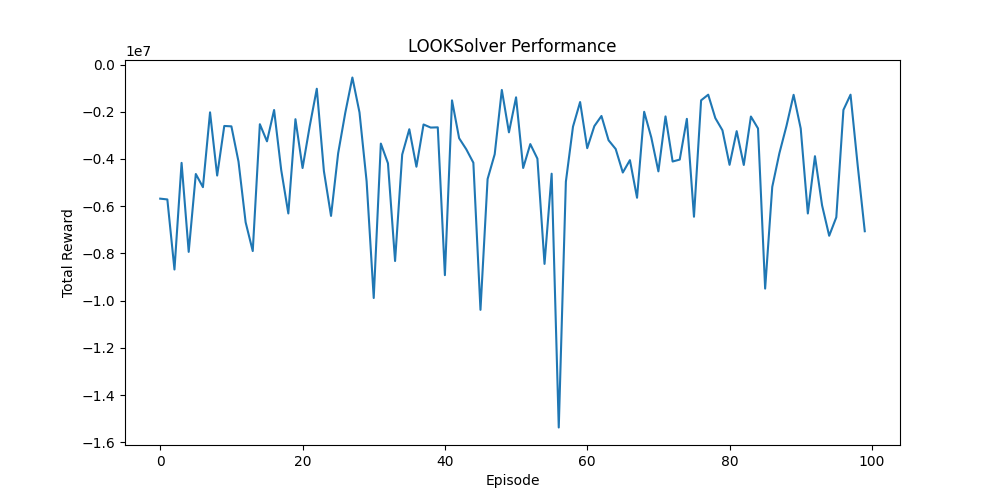
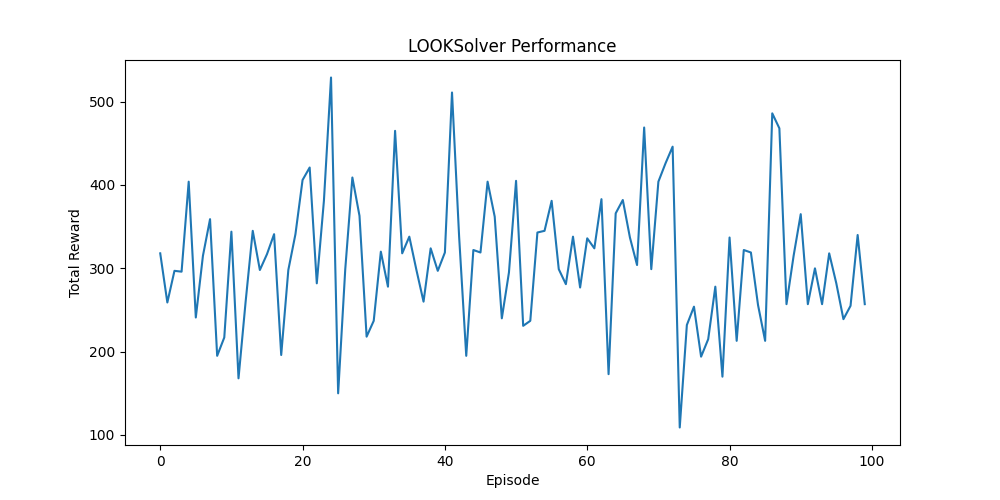
debug

diff --git a/Elevators/envs/simple_elevators.py b/Elevators/envs/simple_elevators.py
@@ -180,7 +180,9 @@ class ElevatorEnv(gym.Env):
         
         floor, car_idx = action
         car = self.cars[car_idx]
-
+        if car.itinerary is not None:
+            # Car is already moving, ignore the action
+            return self._obs(), 0.0, False, False, self._info()
         if floor != self.N:  # *N* is the sentinel for "stay idle"
             car.itinerary = floor
 

diff --git a/Solver/LOOK.py b/Solver/LOOK.py
@@ -117,7 +117,7 @@ class LOOKSolver:
     def reset(self, info):
         self.directions = [0 for _ in range(info["M"])]
 
-    def run_episode(self, max_steps=200):
+    def run_episode(self, max_steps=100):
         obs, info = self.env.reset()
         self.reset(info)
         
